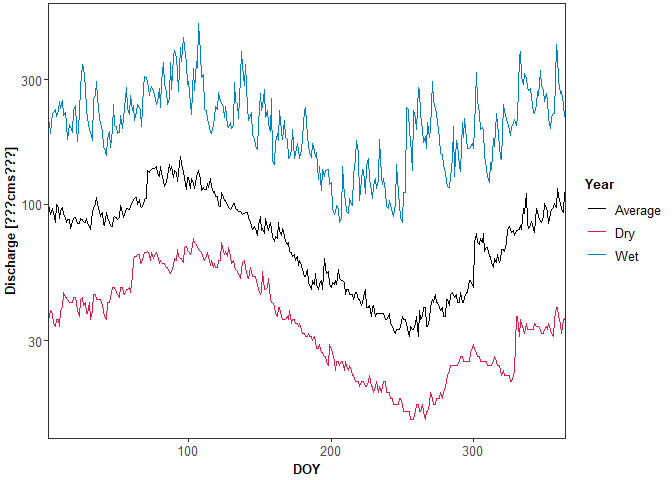
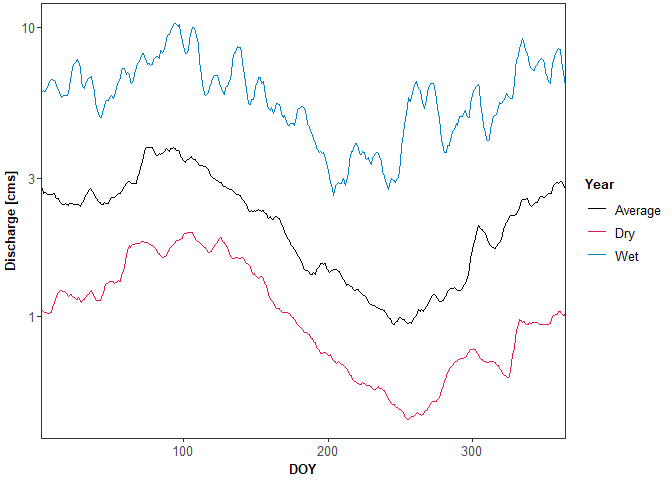
Update example synthetic hydrograph calculation to cms

diff --git a/Code/ApplyDepletion_SyntheticHydrographs.md b/Code/ApplyDepletion_SyntheticHydrographs.md
@@ -19,7 +19,7 @@ library(dataRetrieval)
 options(dplyr.summarise.inform=F)   # suppress summarize info
 
 # directory to keep stuff that is too big for GitHub
-dir_big_files <- "C:/Users/samzipper/OneDrive - The University of Kansas/Research/StreamflowDepletion/DepletionMetrics/data"
+dir_big_files <- "C:/Users/samzipper/OneDrive - The University of Kansas/Research/StreamflowDepletion/DepletionMetrics_LapidesEtAl/data"
 
 ## color palettes
 # categorical color palette from https://sashat.me/2017/01/11/list-of-20-simple-distinct-colors/
@@ -134,7 +134,7 @@ daily_DAW %>%
   ggplot(aes(x = DOY, y = discharge, color = name)) +
   geom_line() +
   scale_x_continuous(name = "DOY", expand = c(0,0)) +
-  scale_y_log10(name = "Discharge [???cms???]") +
+  scale_y_log10(name = "Discharge [cms]") +
   scale_color_manual(name = "Year", 
                      values = c("Q_avg" = "black", "Q_dry" = col.cat.red, "Q_wet" = col.cat.blu),
                      labels = c("Q_avg" = "Average", "Q_dry" = "Dry", "Q_wet" = "Wet"))
@@ -153,7 +153,7 @@ daily_depletion_with_Q <- left_join(daily_depletion_summary, daily_DAW, by = "DO
 
 ## set pump rate
 pump_Q_fraction <- 0.2  # 20% of mean annual streamflow (based on withdrawal_fractions.xlsx sheet from John)
-pump_rate_cms <- mean(daily_streamflow$mean_va)*pump_Q_fraction  # pump rate for constant pumping
+pump_rate_cms <- mean(daily_DAW$Q_avg)*pump_Q_fraction  # pump rate for constant pumping
 pump_vol_m3 <- pump_rate_cms*365*24*60*60
 seasonal_pump_days <- length(seq(yday(ymd("2021-05-01")), yday(ymd("2021-09-30"))))
 pump_rate_cms_seasonal <- pump_vol_m3/(seasonal_pump_days*24*60*60)
